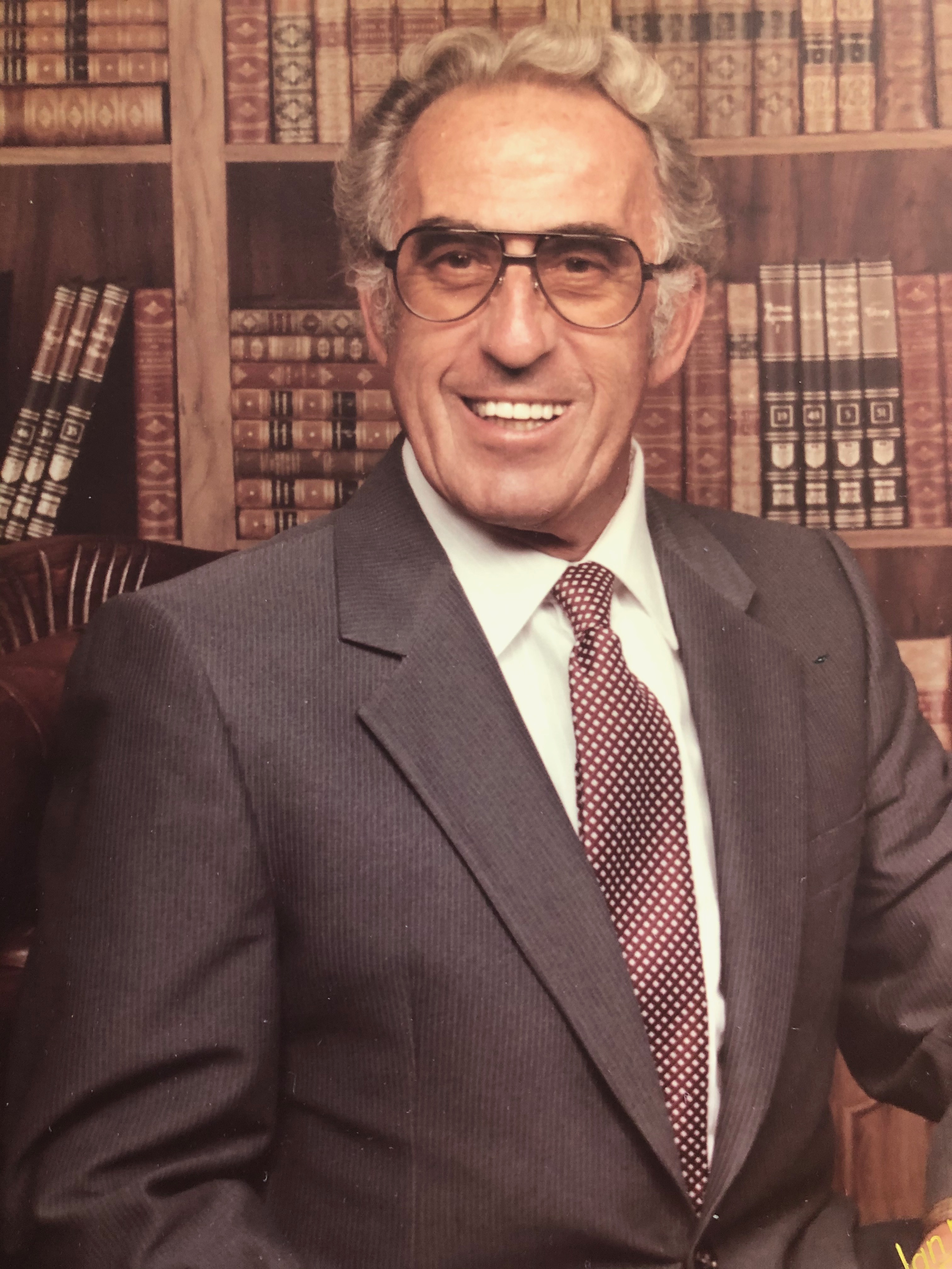
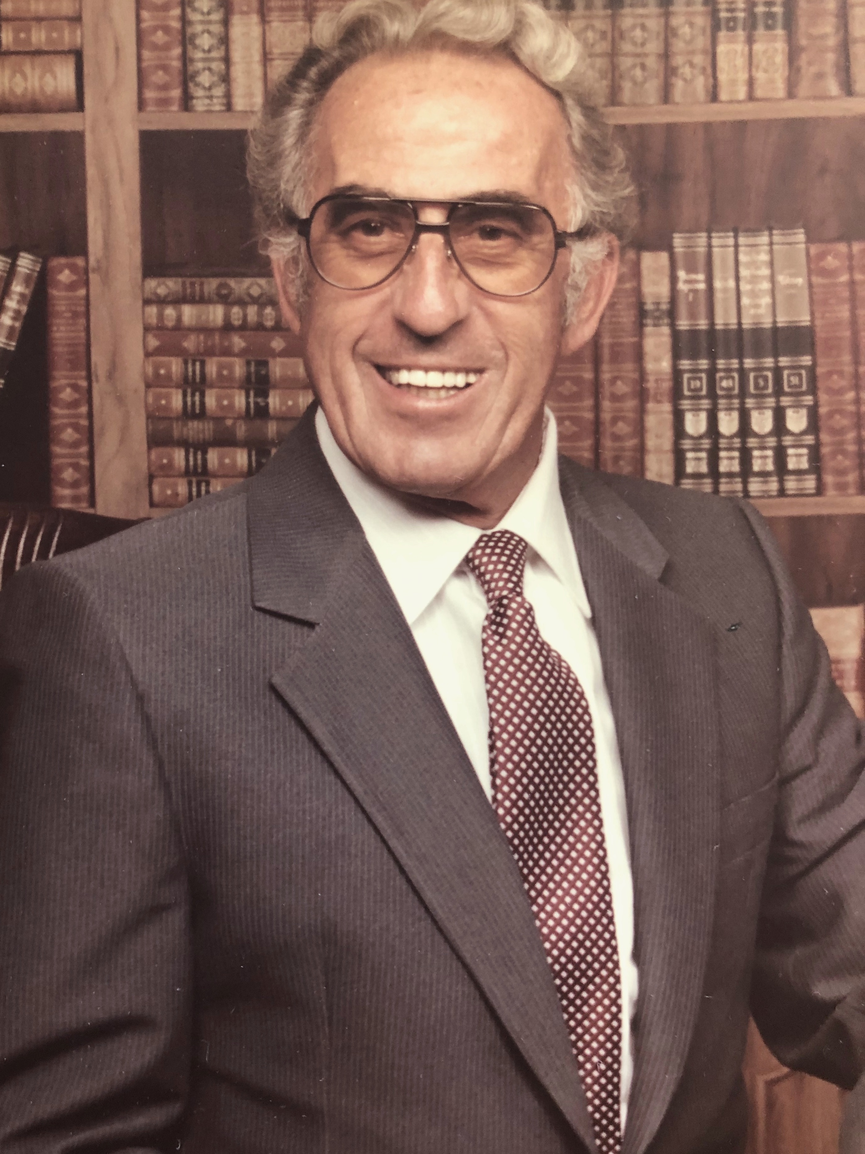
resized images to 8x10

diff --git a/script.js b/script.js
@@ -1,22 +1,27 @@
 const pics = [
-"images/John.jpeg", 
-"images/Colleen.jpeg", 
-"images/Dan.jpeg",
-"images/Paul.jpeg",
-"images/Anne.jpeg",
-"images/Betty.jpeg",
-"images/Harry.jpeg",
-"images/Mary.jpeg",
-"images/Mora.jpeg",
-"images/Priscilla.jpeg",
-"images/Benji.jpg",
-"images/Stacey.jpeg",
-"images/Katelyn.jpeg",
-"images/Sarah.jpeg",
-"images/Andrew.jpeg",
-"images/Laura.jpeg",
-"images/Grace.jpeg",
-"images/Heather.jpeg"
+"images2/John.jpeg", 
+"images2/Colleen.jpeg", 
+"images2/Dan.jpeg",
+"images2/Paul.jpeg",
+"images2/Anne.jpeg",
+"images2/Betty.jpeg",
+"images2/Harry.jpeg",
+"images2/Mary.jpeg",
+"images2/Mora.jpeg",
+"images2/Priscilla.jpeg",
+"images2/Benji.jpeg",
+"images2/Stacey.jpeg",
+"images2/Katelyn.jpeg",
+"images2/Sarah.jpeg",
+"images2/Andrew.jpeg",
+"images2/Laura.jpeg",
+"images2/Grace.jpeg",
+"images2/Heather.jpeg",
+"images2/Charlotte.jpeg",
+"images2/David.jpeg",
+"images2/Holly.jpeg",
+"images2/Matthew.jpeg",
+"images2/Nathan.jpeg"
 ]
 
 let bingo = {
